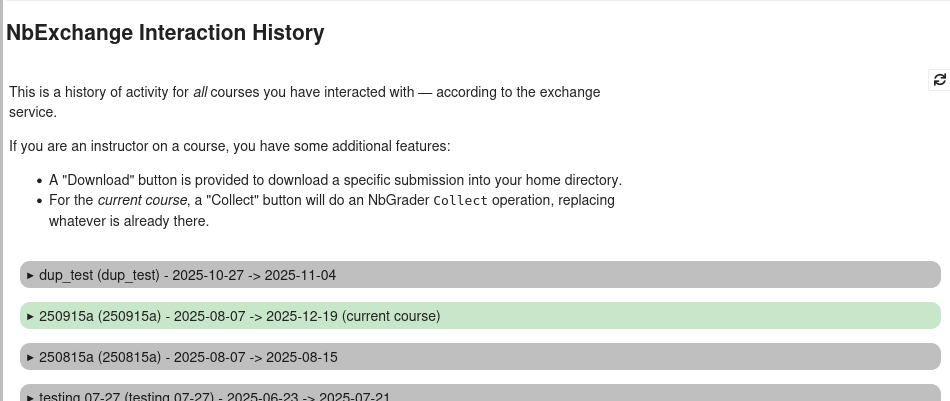
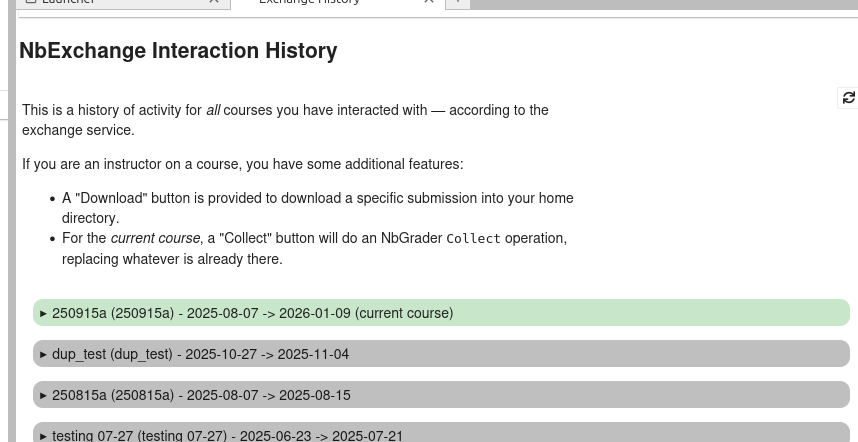
Update the readme

Changed region(s): [[0.0, 0.0, 1.0, 1.0], [0.9697, 0.1796, 1.0, 0.2394]]

diff --git a/README.md b/README.md
@@ -20,7 +20,7 @@ This provides a visual render of NbExchanges `history` endpoint:
 
 ![A screenshot of the History page](history_screenshot_closed.png)
 
-The current course is shown in green, and each course indicates the first and last date of any activity _for the whole course_.
+The current course is shown in green (and is always placed at the top of the list), and each course indicates the first and last date of any activity _for the whole course_.
 
 For each course, a summary of the actions is provided, and then (within each action) all actions are listed in time-order:
 
@@ -30,8 +30,8 @@ You will notice that _submissions_ have some buttons:
 
 If you are an instructor on a course, you have some additional features:
 
-- A "Download" button is provided to download a specific submission into your home directory (`~/Download/<student>/<assignment>/`).
-- For the current course, a "Collect" button will do an NbGrader Collect operation, replacing whatever is already there.
+- A "Download" button is provided to download a specific submission into your home directory (`~/Downloads/<course_code>/<student>/<assignment>/`).
+- For the current course - a "Collect" button is available, which will do a singular NbGrader `Collect` operation, replacing whatever is already there for the specific student.
 
 ### Bulk Autograde
 
@@ -119,6 +119,8 @@ c.Exchange.base_service_url = 'https://nbexchange.example.com'
 c.Exchange.base_path = '/services/exchange'
 
 ```
+
+The `Exchange History` and `Bulk Autograde` commands use the NBgrader system to perform their actions, so require additional configuration.
 
 ## Contributing
 
